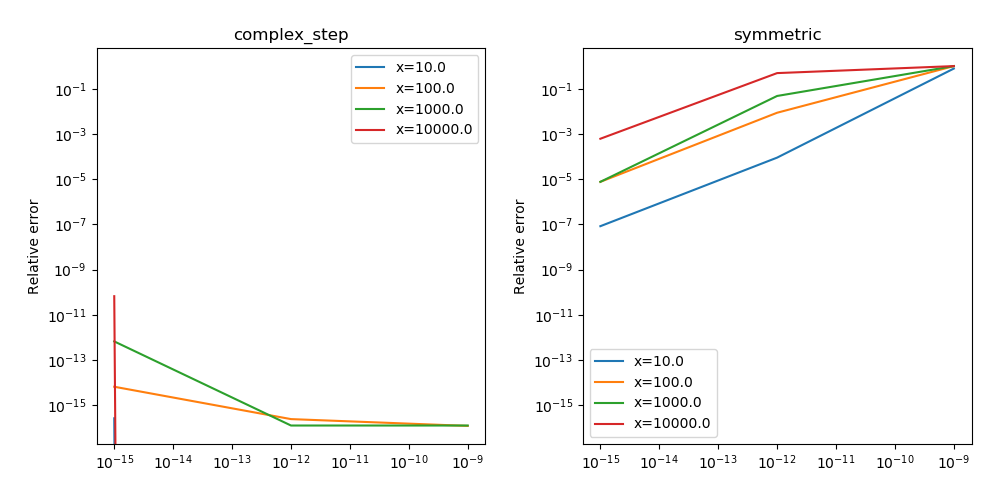
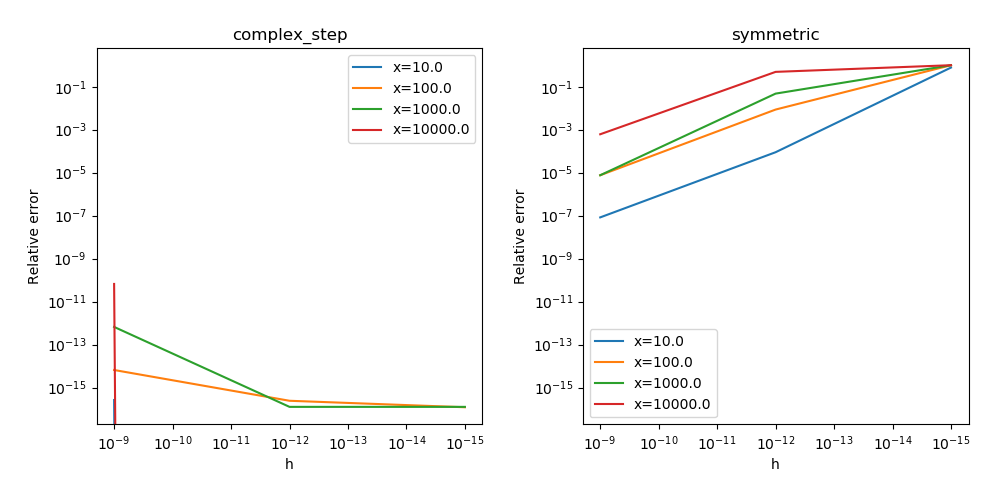
Relabelled x-axis to reflect true values of h

diff --git a/part-ia/computing-examples2/computing-E2Q4.py b/part-ia/computing-examples2/computing-E2Q4.py
@@ -18,6 +18,7 @@ def run(ax, approx_func):
 
 	ax.set_title(f'{approx_func.__name__}')
 	ax.set_ylabel('Relative error')
+	ax.set_xlabel('h')
 	ax.tick_params(
 		axis='x',
 		labelbottom=True,
@@ -35,9 +36,10 @@ def run(ax, approx_func):
 	for i, x in enumerate(xs):
 		r = np.abs((approx_func(x, hs) - df(x)) / df(x))
 		rel_error[i, :] = r
-		ax.loglog(hs[::-1], r)
+		ax.loglog(hs[::], r)
 
 	ax.legend([f"x={x}" for x in xs])
+	ax.invert_xaxis()
 
 
 	return rel_error
